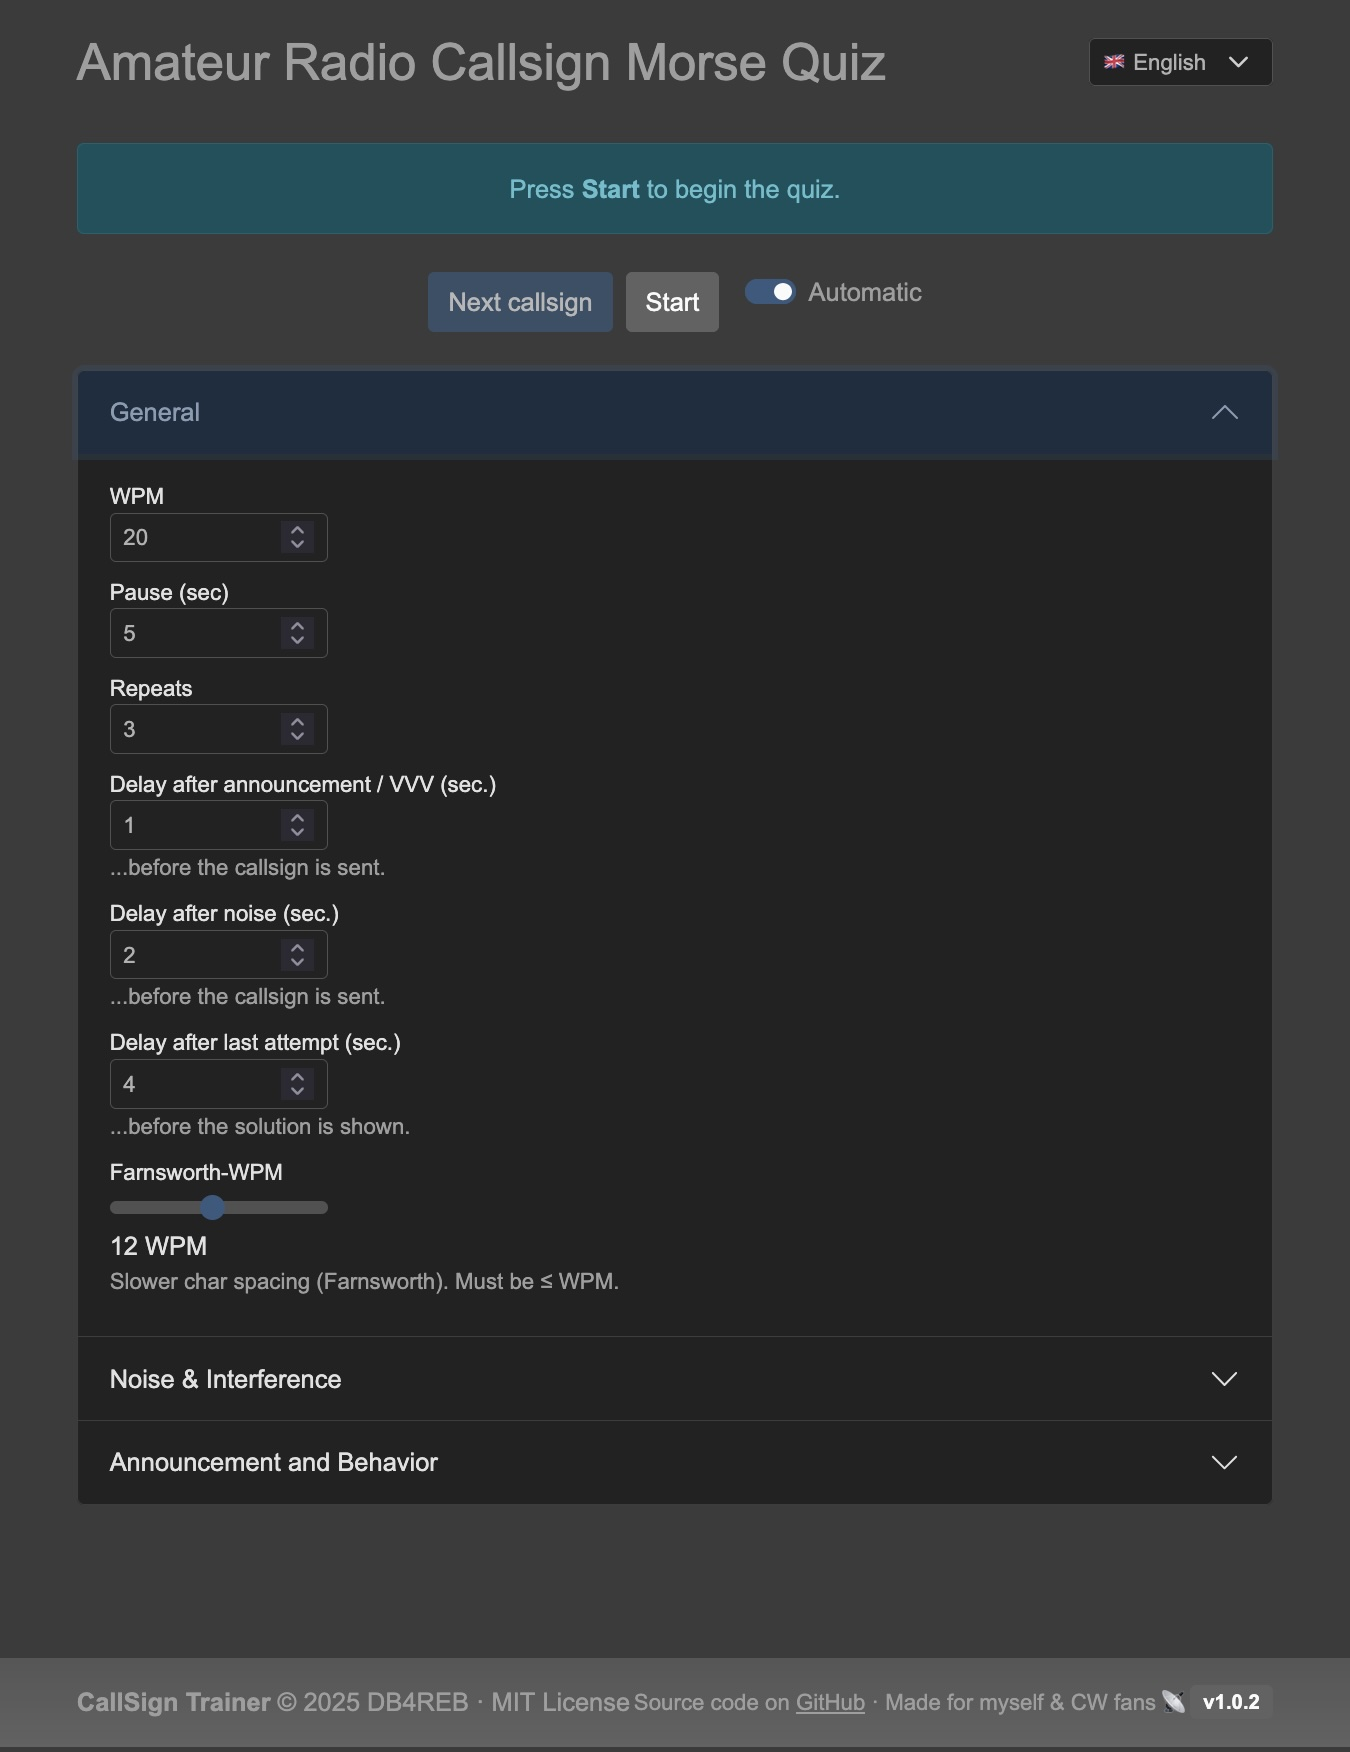
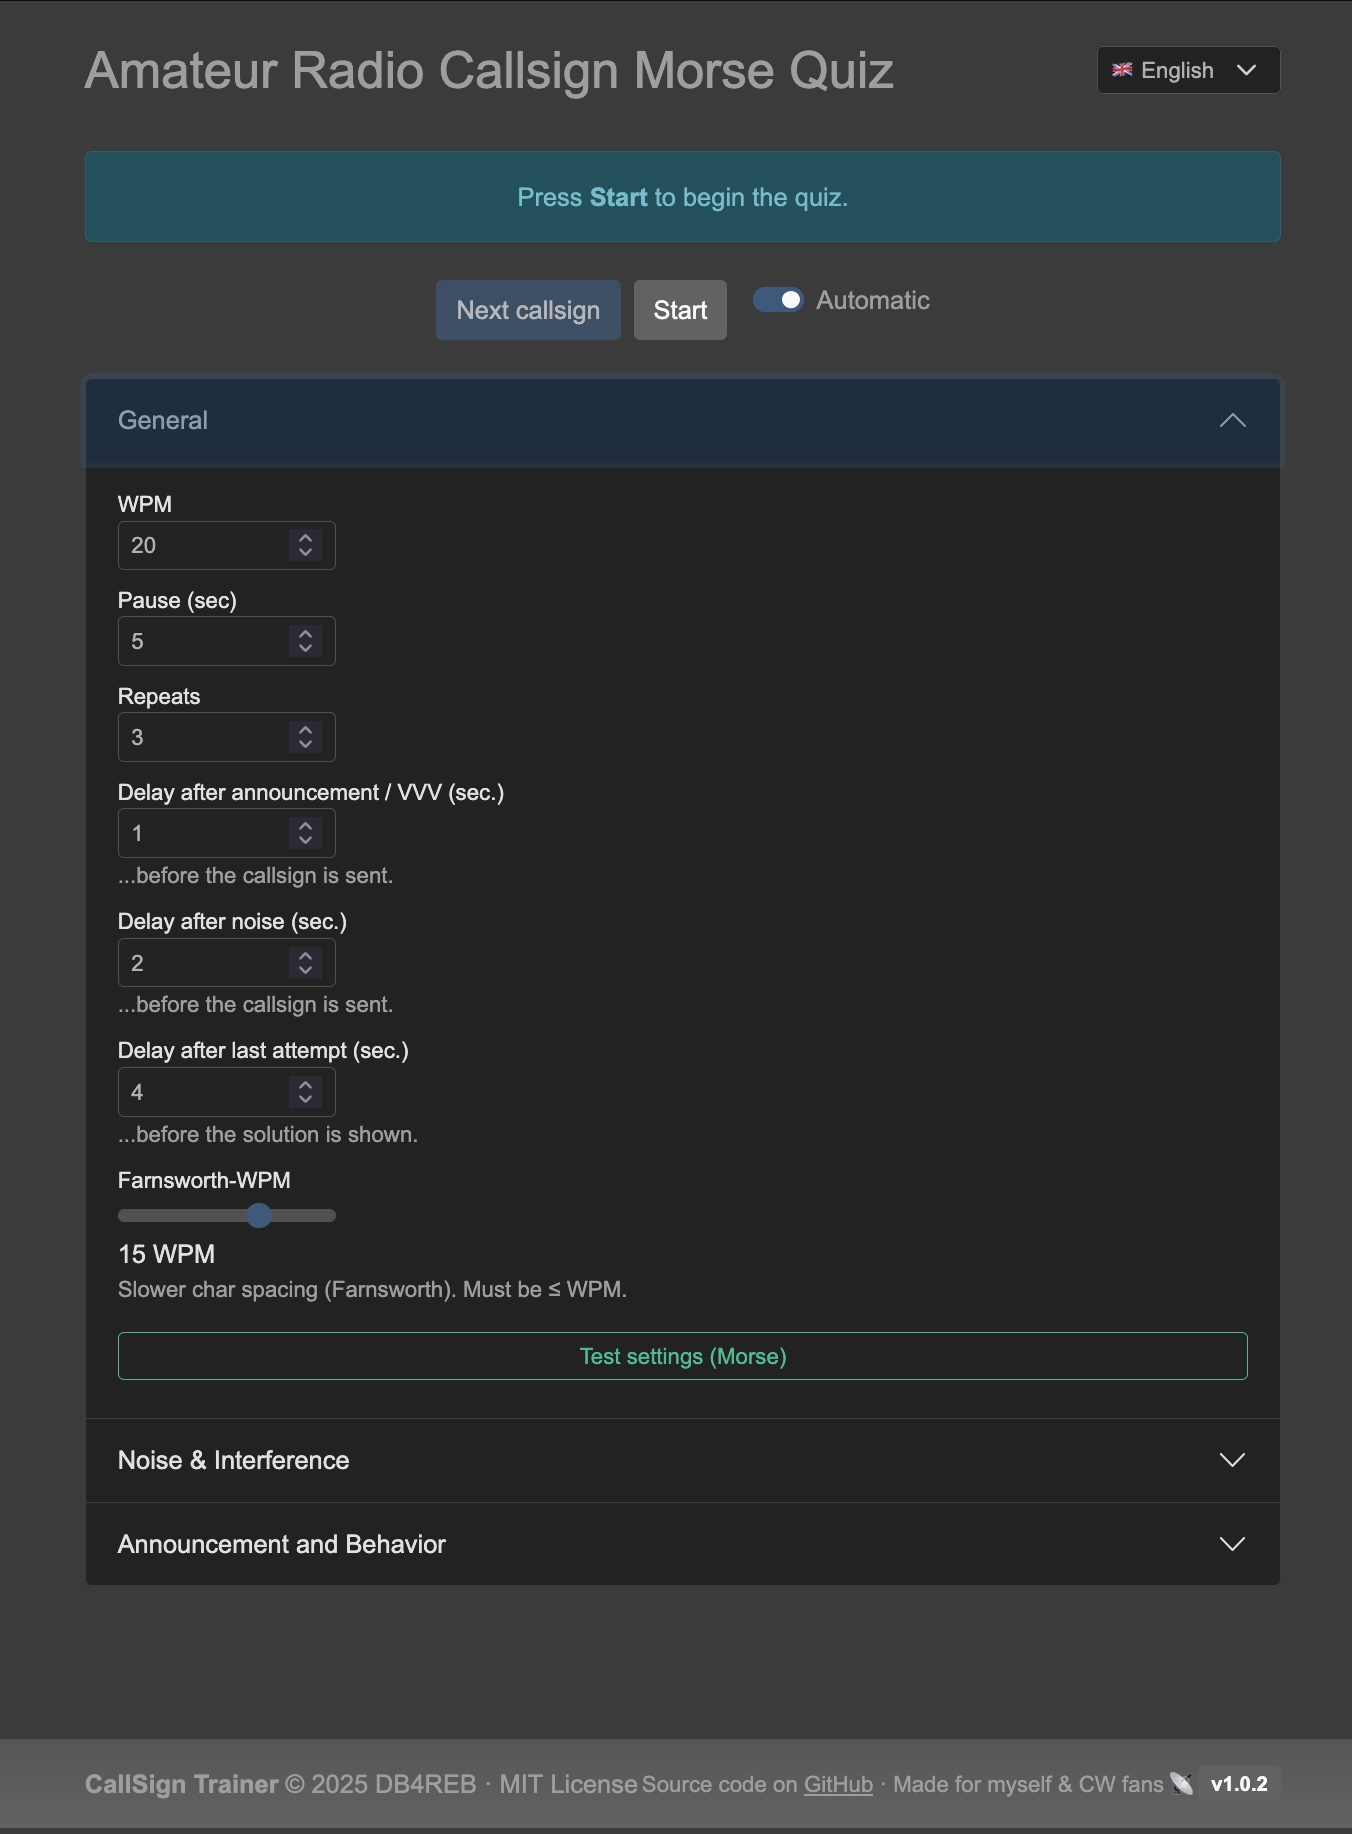
Modified Testbutton Outline

diff --git a/js/ui.js b/js/ui.js
@@ -195,7 +195,7 @@ export function initUI() {
                         <small class="text-muted">${t('farnsworth_hint')}</small>
                     </div>
                     <div class="mb-2 d-flex flex-column">
-                        <button id="testMorseBtn" type="button" class="btn btn-success btn-sm mt-2">
+                        <button id="testMorseBtn" type="button" class="btn btn-outline-success btn-sm mt-2">
                             ${t('test_morse')}
                         </button>
                     </div>                    
